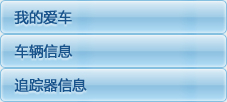
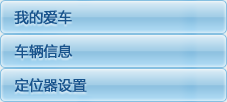
-- 1、文字修改“追踪器”--->“定位器” -- 2、定位器设置sos联系人 多余代码删除
git-svn-id: http://www.ichebao.net/svn/acb/trunk@691 fbfde4e3-4bc3-4d81-a63b-7b332075e0cf

Changed region(s): [[0.2467, 0.7647, 0.4009, 0.9118], [0.0617, 0.7647, 0.185, 0.9118]]

diff --git a/apps/uweb/static/js/initialize.js b/apps/uweb/static/js/initialize.js
@@ -9,7 +9,7 @@
 * arr_infoPoint: 通过动态更新获取到的车辆数据进行轨迹显示
 * f_infoWindowStatus: 吹出框是否显示
 * obj_localSearch: 周边查询对象 
-* wakeupInterval： 唤醒追踪器计时器
+* wakeupInterval： 唤醒定位器计时器
 */
 var mapObj = null,
 	actionMarker = null, 
@@ -740,7 +740,7 @@ window.dlf.setTrack = function(str_tid, selfItem) {
 
 
 /**
-* 追踪器开启追踪倒计时初始化 
+* 定位器开启追踪倒计时初始化 
 */
 window.dlf.fn_clearTrack = function() {
 	dlf.fn_clearInterval(trackInterval);
@@ -758,8 +758,8 @@ window.dlf.fn_openTrack = function(str_tid, selfItem) {
 	$.post_(BEGINTRACK_URL, JSON.stringify(obj_param), function(data) {
 		if ( data.status == 0 ) {
 			var obj_trackMsg = $('#trackMsg'),
-				obj_trackWrapper = $('#trackWrapper'),	// 追踪器唤醒提示容器
-				obj_trackTimer = $('#trackTimer'),	// 追踪器提示框计时器容器
+				obj_trackWrapper = $('#trackWrapper'),	// 定位器唤醒提示容器
+				obj_trackTimer = $('#trackTimer'),	// 定位器提示框计时器容器
 				n_timer = parseInt(obj_trackTimer.html()),
 				n_left = ($(window).width()-400)/2;
 				
@@ -770,18 +770,18 @@ window.dlf.fn_openTrack = function(str_tid, selfItem) {
 			/**
 			* 5分钟
 			*/
-			obj_trackMsg.html('追踪器已开启追踪10分钟后将自动取消追踪。');
+			obj_trackMsg.html('定位器已开启追踪10分钟后将自动取消追踪。');
 			obj_trackWrapper.css('left', n_left + 'px').show();
 			setTimeout(function() {
 				obj_trackWrapper.hide();
 			}, 4000);
 			
 			trackInterval = setInterval(function() {
-				var n_login = parseInt($('#carList .currentCar').eq(0).attr('clogin'));	// 判断当前追踪器状态
+				var n_login = parseInt($('#carList .currentCar').eq(0).attr('clogin'));	// 判断当前定位器状态
 				if ( n_timer > 6000 ) {
 					dlf.fn_clearInterval(trackInterval);
 					obj_trackWrapper.show();
-					obj_trackMsg.html('追踪器追踪时间已到，将取消追踪。');
+					obj_trackMsg.html('定位器追踪时间已到，将取消追踪。');
 					setTimeout(function() {
 						dlf.fn_clearTrack();
 						dlf.setTrack(str_tid, selfItem);

diff --git a/apps/uweb/templates/about.html b/apps/uweb/templates/about.html
@@ -11,7 +11,7 @@
 				关于我们
 			</p>
 			<p class="content">
-			移动车卫士是一项保障车主的车辆安全的服务业务，主要包括的功能有实时定位、轨迹查询、告警查询、设防/撤防、追踪器设置、短信设置等。车主可以登录客户端随时查看车辆所在位置以及轨迹路线，同时车主还可以远程对追踪器进行设防/撤防操作以保证车辆安全；另外车主可通过手机发送短信指令到平台来查询车辆的当前位置以及对车辆设防撤防，并且还可以查询车主追踪器的电量。
+			移动车卫士是一项保障车主的车辆安全的服务业务，主要包括的功能有实时定位、轨迹查询、告警查询、设防/撤防、定位器设置、短信设置等。车主可以登录客户端随时查看车辆所在位置以及轨迹路线，同时车主还可以远程对定位器进行设防/撤防操作以保证车辆安全；另外车主可通过手机发送短信指令到平台来查询车辆的当前位置以及对车辆设防撤防，并且还可以查询车主定位器的电量。
 			<br/>
 				<span>
 					平台网址：http://ichebao.net

diff --git a/apps/uweb/static/js/terminal.js b/apps/uweb/static/js/terminal.js
@@ -19,7 +19,7 @@ window.dlf.fn_initTerminal = function() {
 */
 window.dlf.fn_initTerminalWR = function () {
 	dlf.fn_lockContent($('.terminalContent')); // 添加内容区域的遮罩
-	dlf.fn_jNotifyMessage('追踪器设置查询中' + WAITIMG , 'message', true); 
+	dlf.fn_jNotifyMessage('定位器设置查询中' + WAITIMG , 'message', true); 
 	$.get_(TERMINAL_URL, '', function (data) {  
 		if (data.status == 0) {	
 			var obj_data = data.car_sets,
@@ -145,11 +145,7 @@ window.dlf.fn_baseSave = function() {
 	}
 	
 	if ( n_num != 0 ) {	// 如果有修改向后台发送数据,否则提示无任何修改
-		if ( n_terminalNum > 0 ) {
-			dlf.fn_terminalOnLine(TERMINAL_URL, obj_terminalData, 'terminal', '追踪器参数保存中');
-		} else {
-			dlf.fn_jsonPut(TERMINAL_URL, obj_terminalData, 'terminal', '追踪器参数保存中');
-		}
+		dlf.fn_jsonPut(TERMINAL_URL, obj_terminalData, 'terminal', '定位器参数保存中');
 	} else {
 		dlf.fn_jNotifyMessage('您未做任何修改。', 'message', false, 4000); // 查询状态不正确,错误提示
 		dlf.fn_unLockContent(); // 清除内容区域的遮罩

diff --git a/apps/uweb/static/js/definitions.js b/apps/uweb/static/js/definitions.js
@@ -16,7 +16,7 @@ var TERMINALLIST_URL = '/terminallist'; //终端列表
 var LASTINFO_URL = '/lastinfo'; //动态更新当前终端数据
 var LOGIN_URL = '/login'; // 登录
 var SMS_URL = '/smsoption'; // 短信告警参数
-var WAKEUP_URL = '/wakeup'; // 唤醒追踪器
+var WAKEUP_URL = '/wakeup'; // 唤醒定位器
 var BEGINTRACK_URL = '/tracklq';        // 开启追踪 
 /*常量*/
 var CHECK_INTERVAL = 10000; // 每N秒

diff --git a/apps/uweb/static/js/main.js b/apps/uweb/static/js/main.js
@@ -27,7 +27,7 @@ window.dlf.fn_personalData = function() {
 			$('#phone').html(str_phone).data('phone', str_phone);
 			$('#cnum').val(str_cnum).data('cnum', str_cnum);
 			
-			dlf.fn_updateAlias();	// 修改追踪器别名
+			dlf.fn_updateAlias();	// 修改定位器别名
 			dlf.fn_closeJNotifyMsg('#jNotifyMessage'); // 关闭消息提示
 		} else if ( data.status == 201 ) {	// 业务变更
 			dlf.fn_showBusinessTip();

diff --git a/apps/uweb/templates/index.html b/apps/uweb/templates/index.html
@@ -79,7 +79,7 @@
 						<span class="tInfoWord"><label>GPS</label>信号：</span><span class="fontColor" id="gpsContent"></span>
 					</li>
 					<li id="tmobile">
-						<span class="tInfoWord">追踪器号码：</span><span class="fontColor" id="tmobileContent"></span>
+						<span class="tInfoWord">定位器号码：</span><span class="fontColor" id="tmobileContent"></span>
 					</li>
 				</ul>
 			</div>

diff --git a/apps/uweb/templates/dialogs.html b/apps/uweb/templates/dialogs.html
@@ -95,7 +95,7 @@
 						<table id="bListR">
 							<tbody>
 								<tr>
-									<td class="terminalTdL">追踪器手机号:</td>
+									<td class="terminalTdL">定位器手机号:</td>
 									<td id="mobile"  t_val="0">
 										<label id="t_mobile" terminalkey="mobile"></label>
 									</td>
